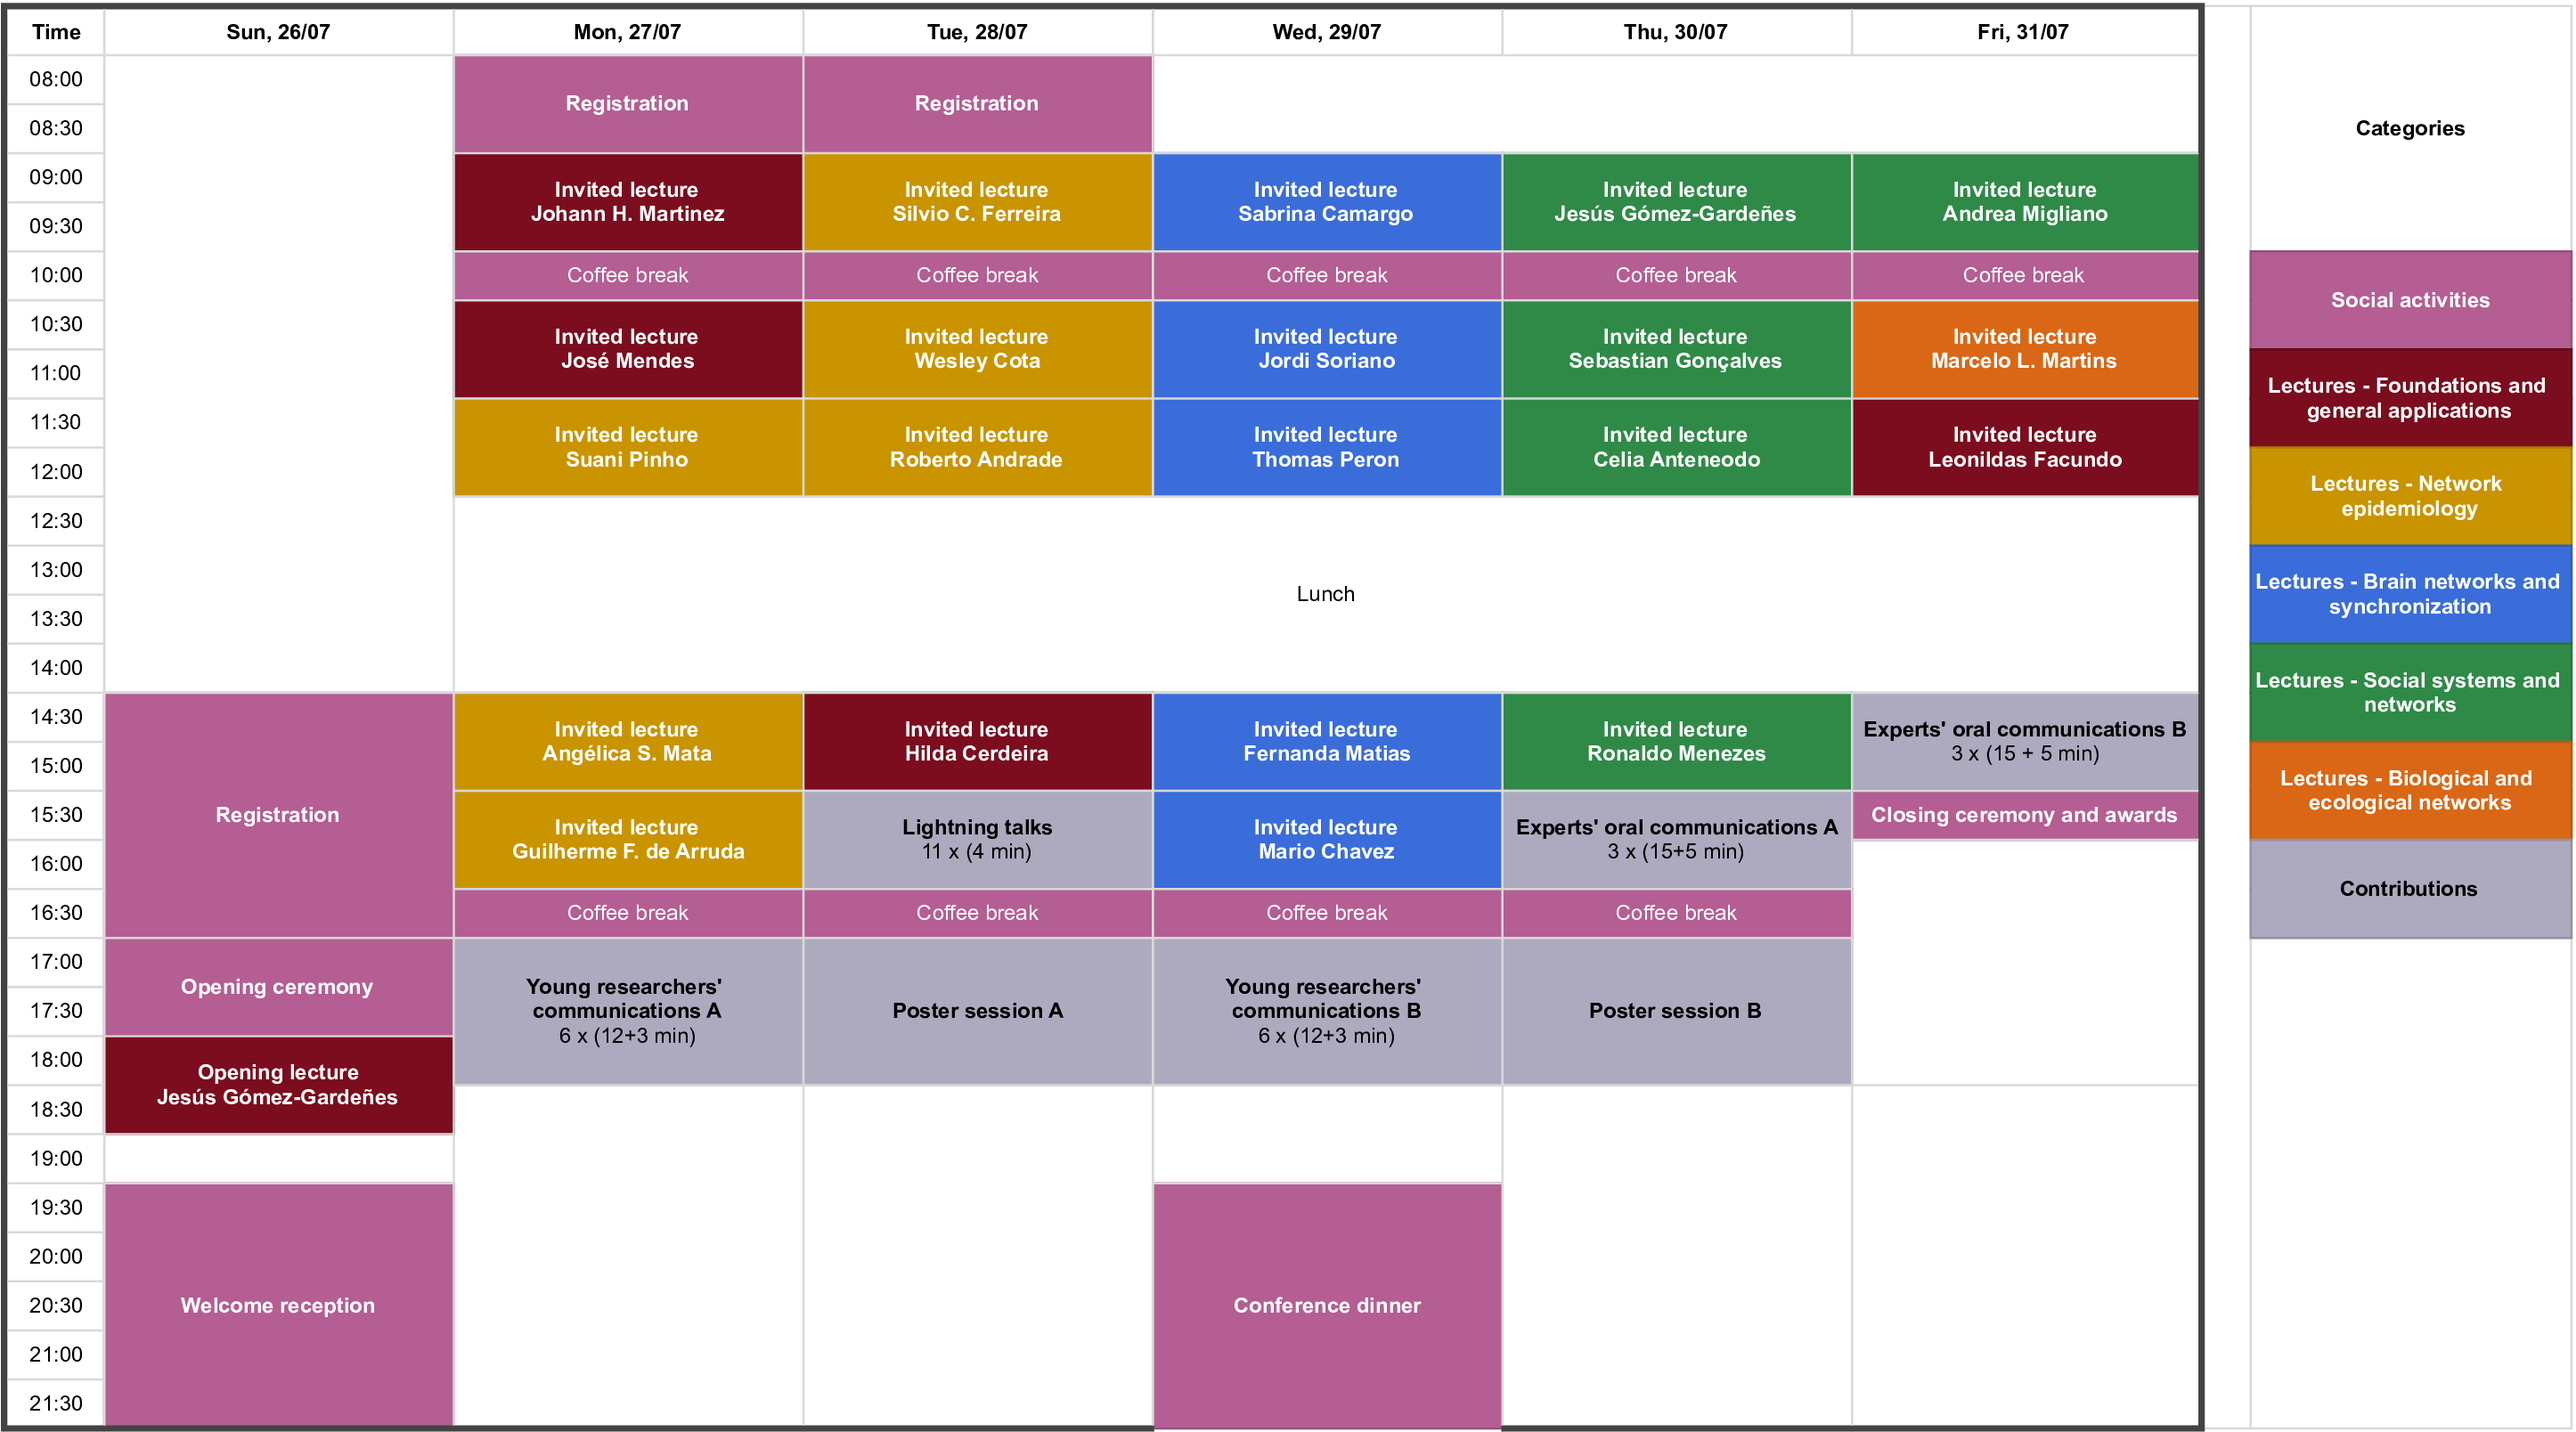
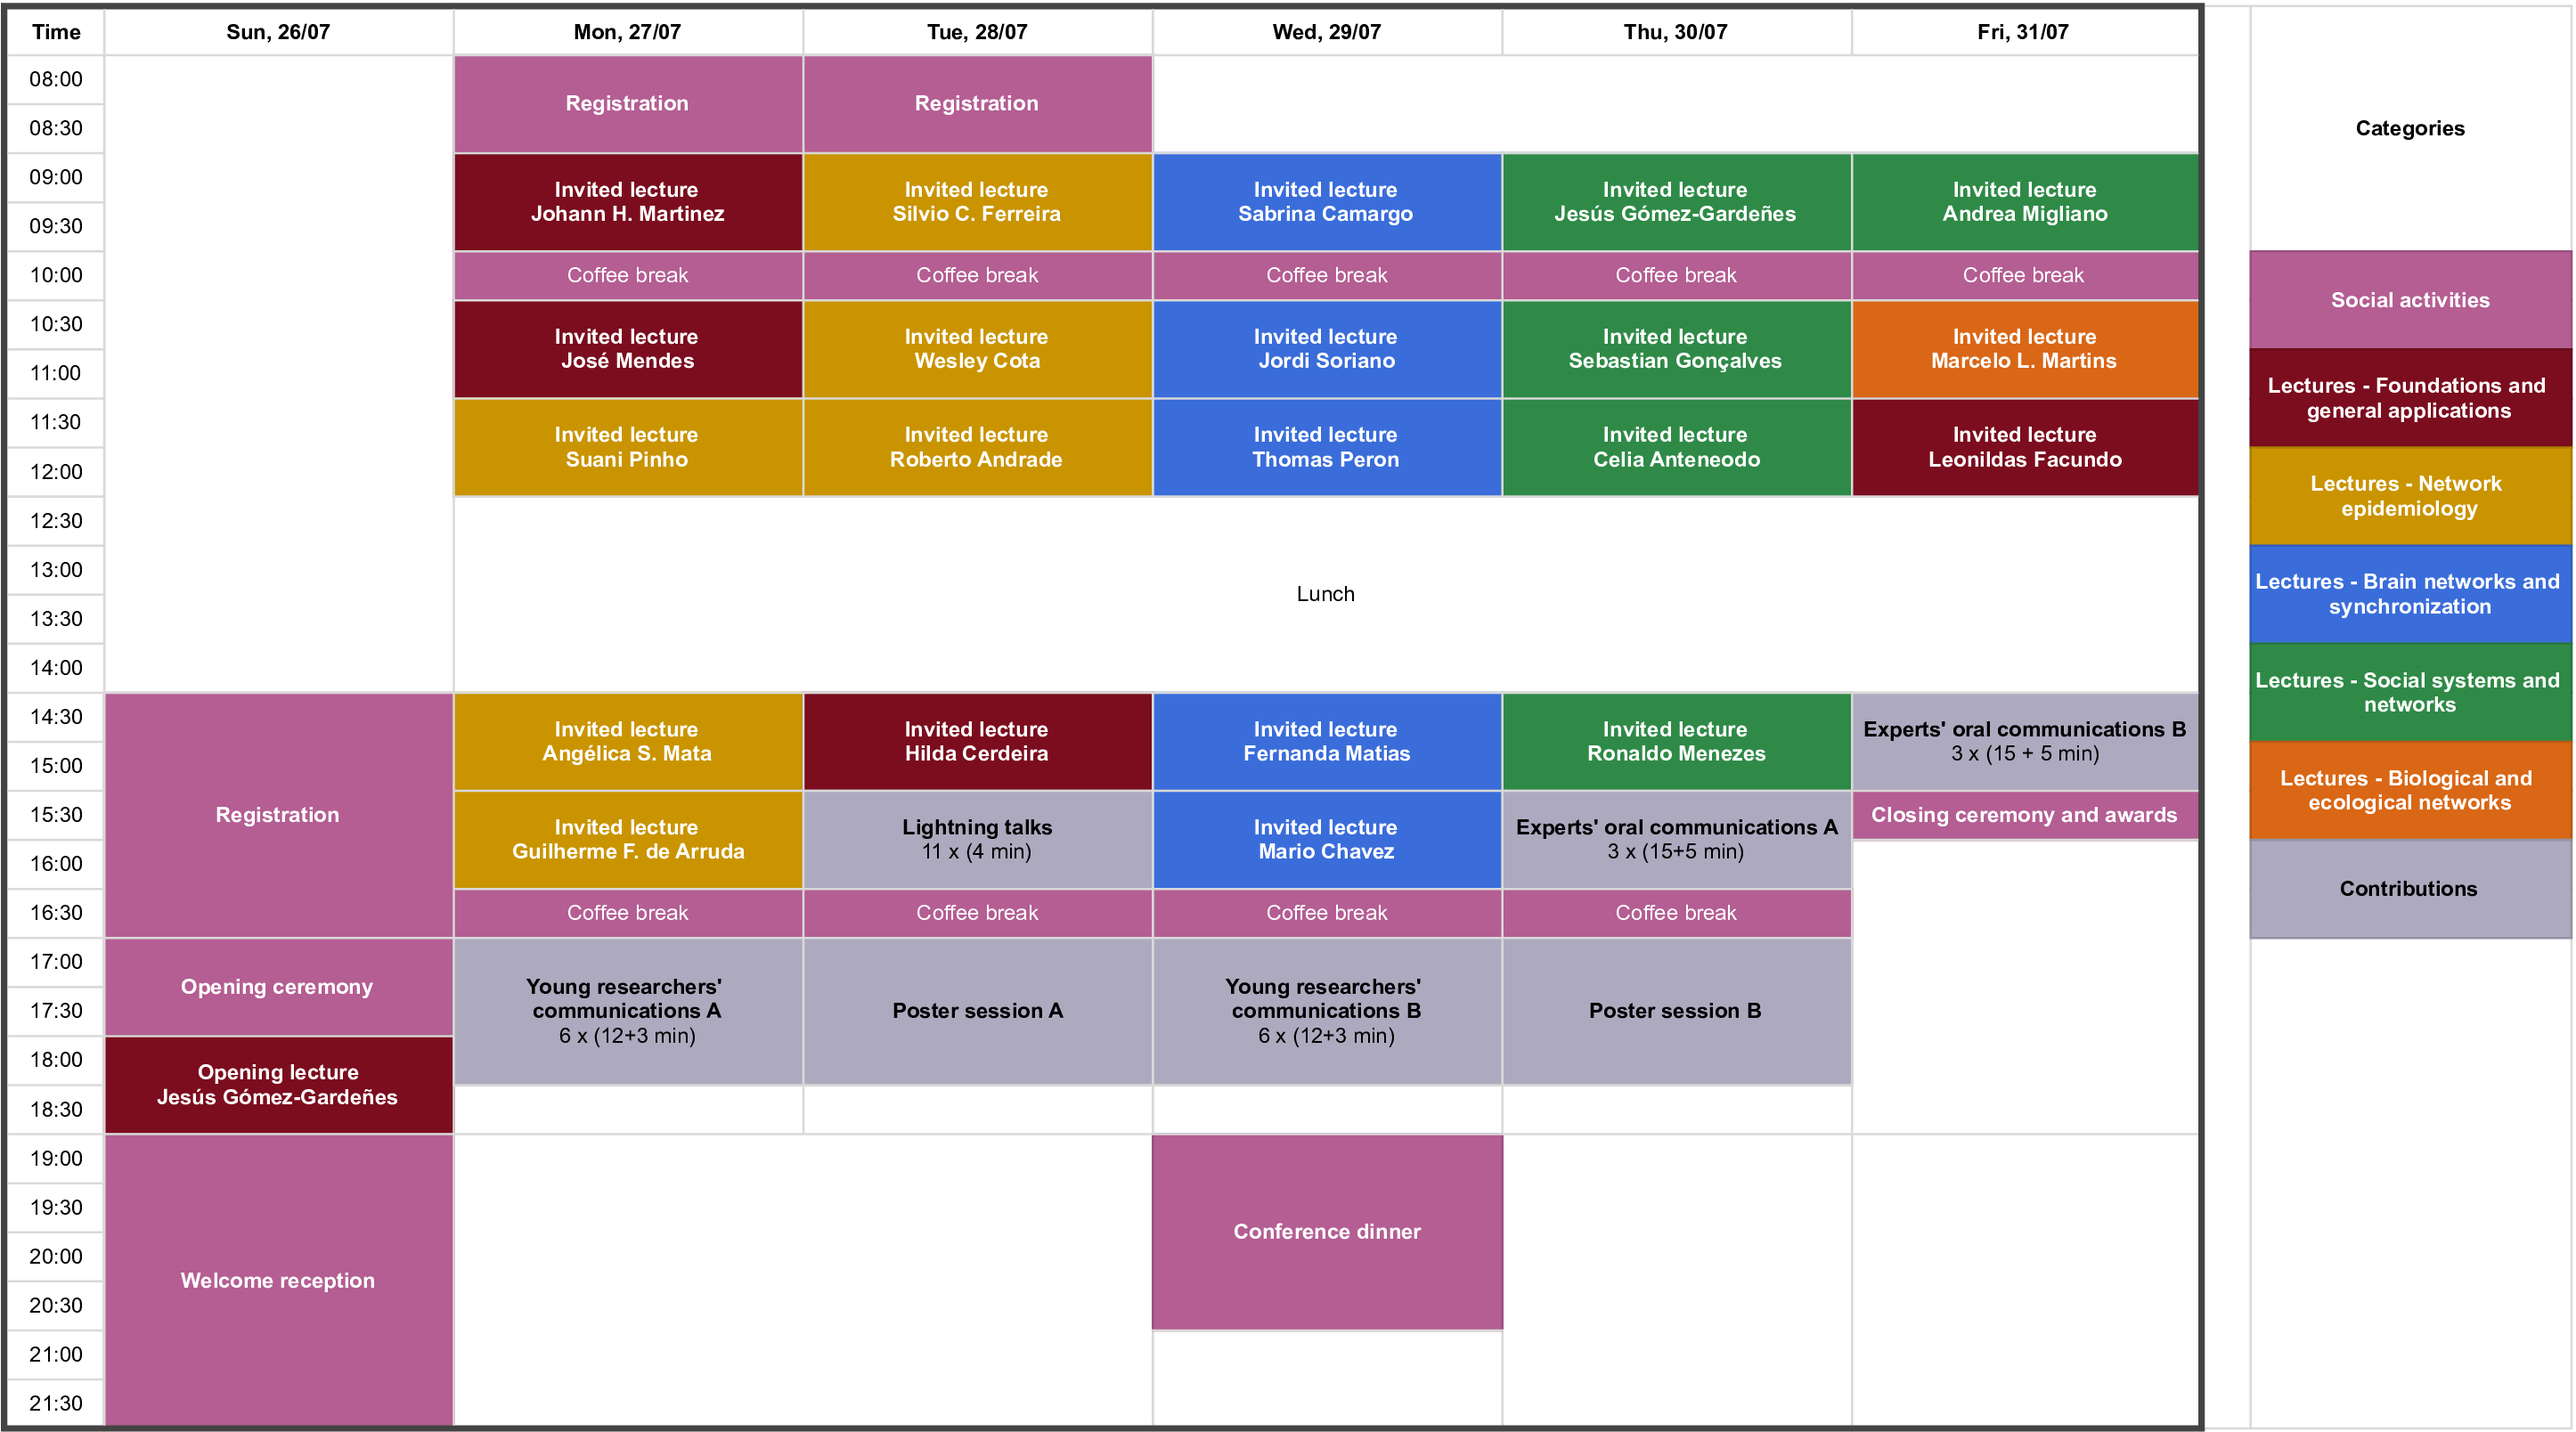
Atualiza página de programação (geração automática)

diff --git a/programa.html b/programa.html
@@ -439,7 +439,7 @@ Auditório da Biblioteca Central da Universidade Federal de Viçosa (UFV)<br>
 </div>
 
 <div class="geracao">
-Gerado em / Generado el / Generated on: 24/07/2026 13:05 (GMT−3)
+Gerado em / Generado el / Generated on: 27/07/2026 10:58 (GMT−3)
 </div>
 
 </header>
@@ -4128,7 +4128,7 @@ Universidade Federal Fluminense (UFF)
 </div>
 
 <div style="margin-top:4px;font-size:1.18em;font-weight:bold;">
-TBA
+Origens Culturais das Redes Sociais de Caçadores-coletores
 </div>
 
 <div style="margin-top:5px;">
